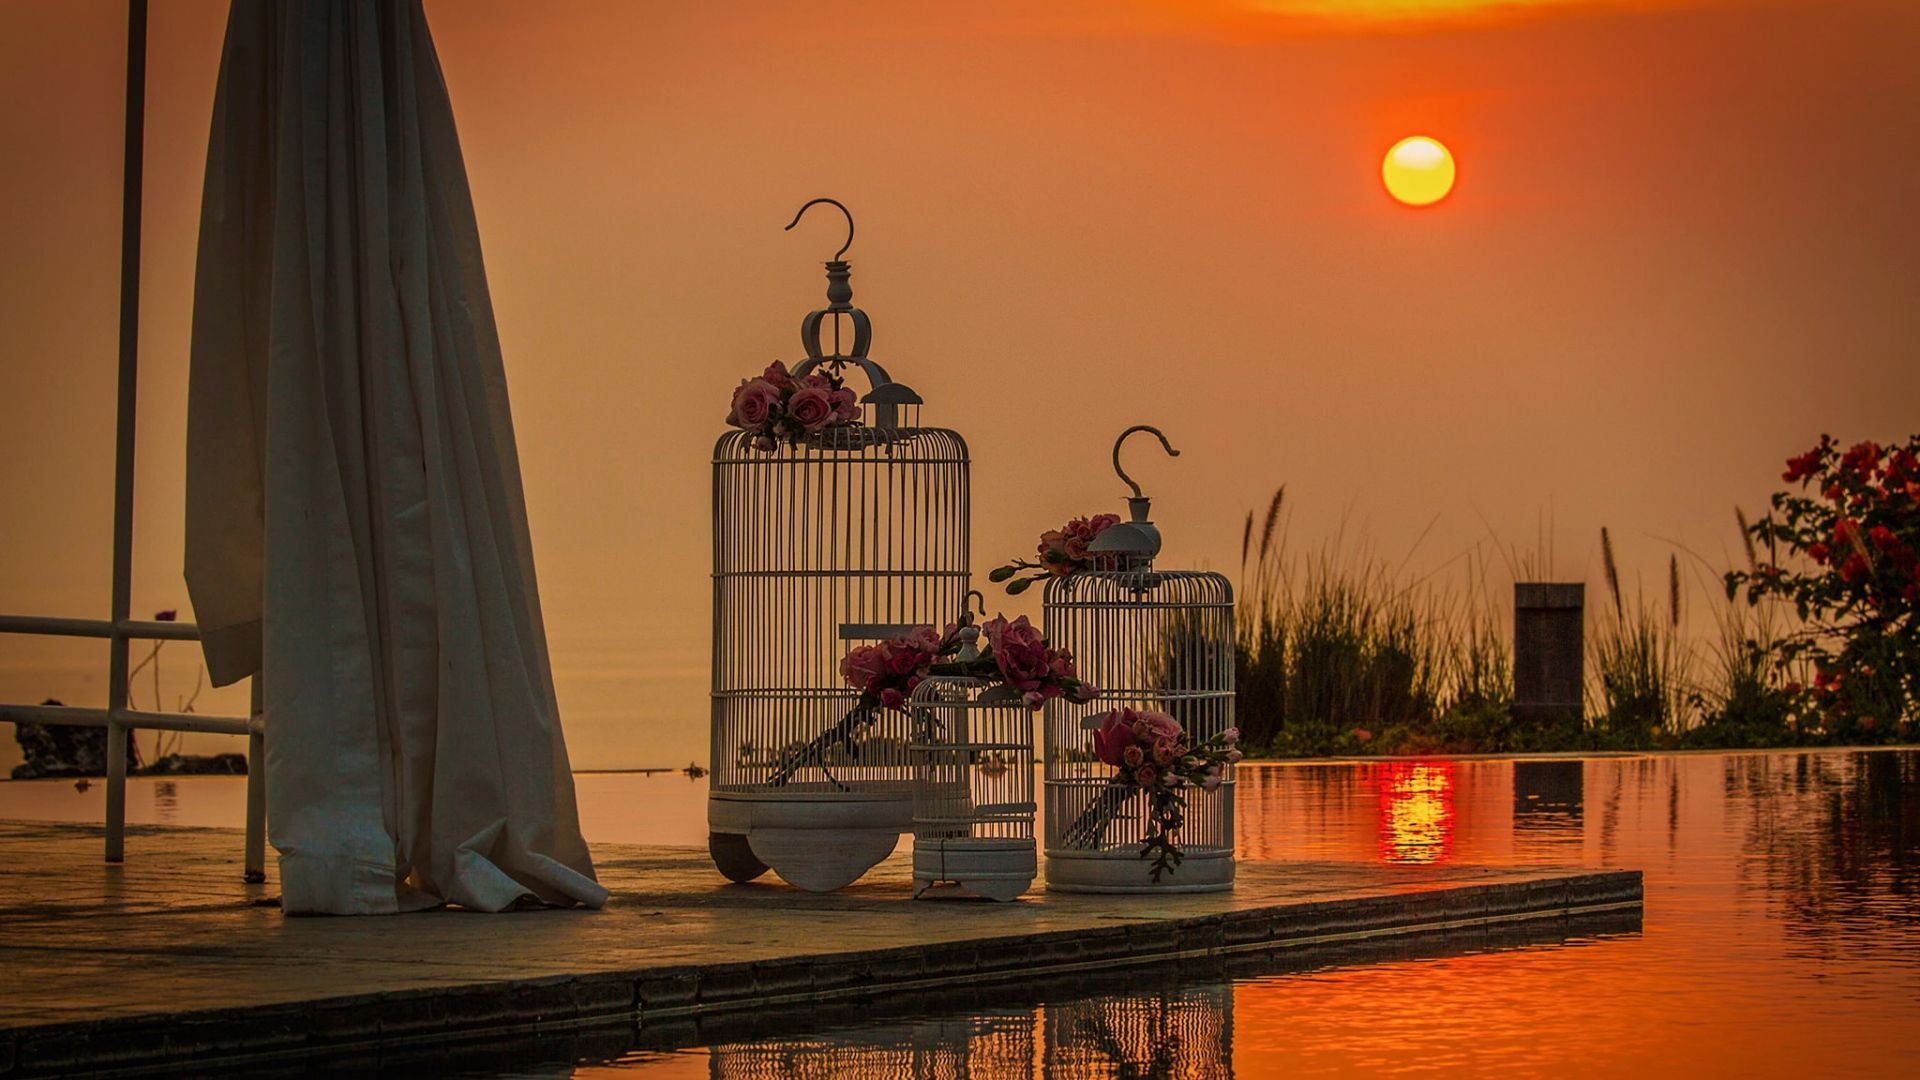
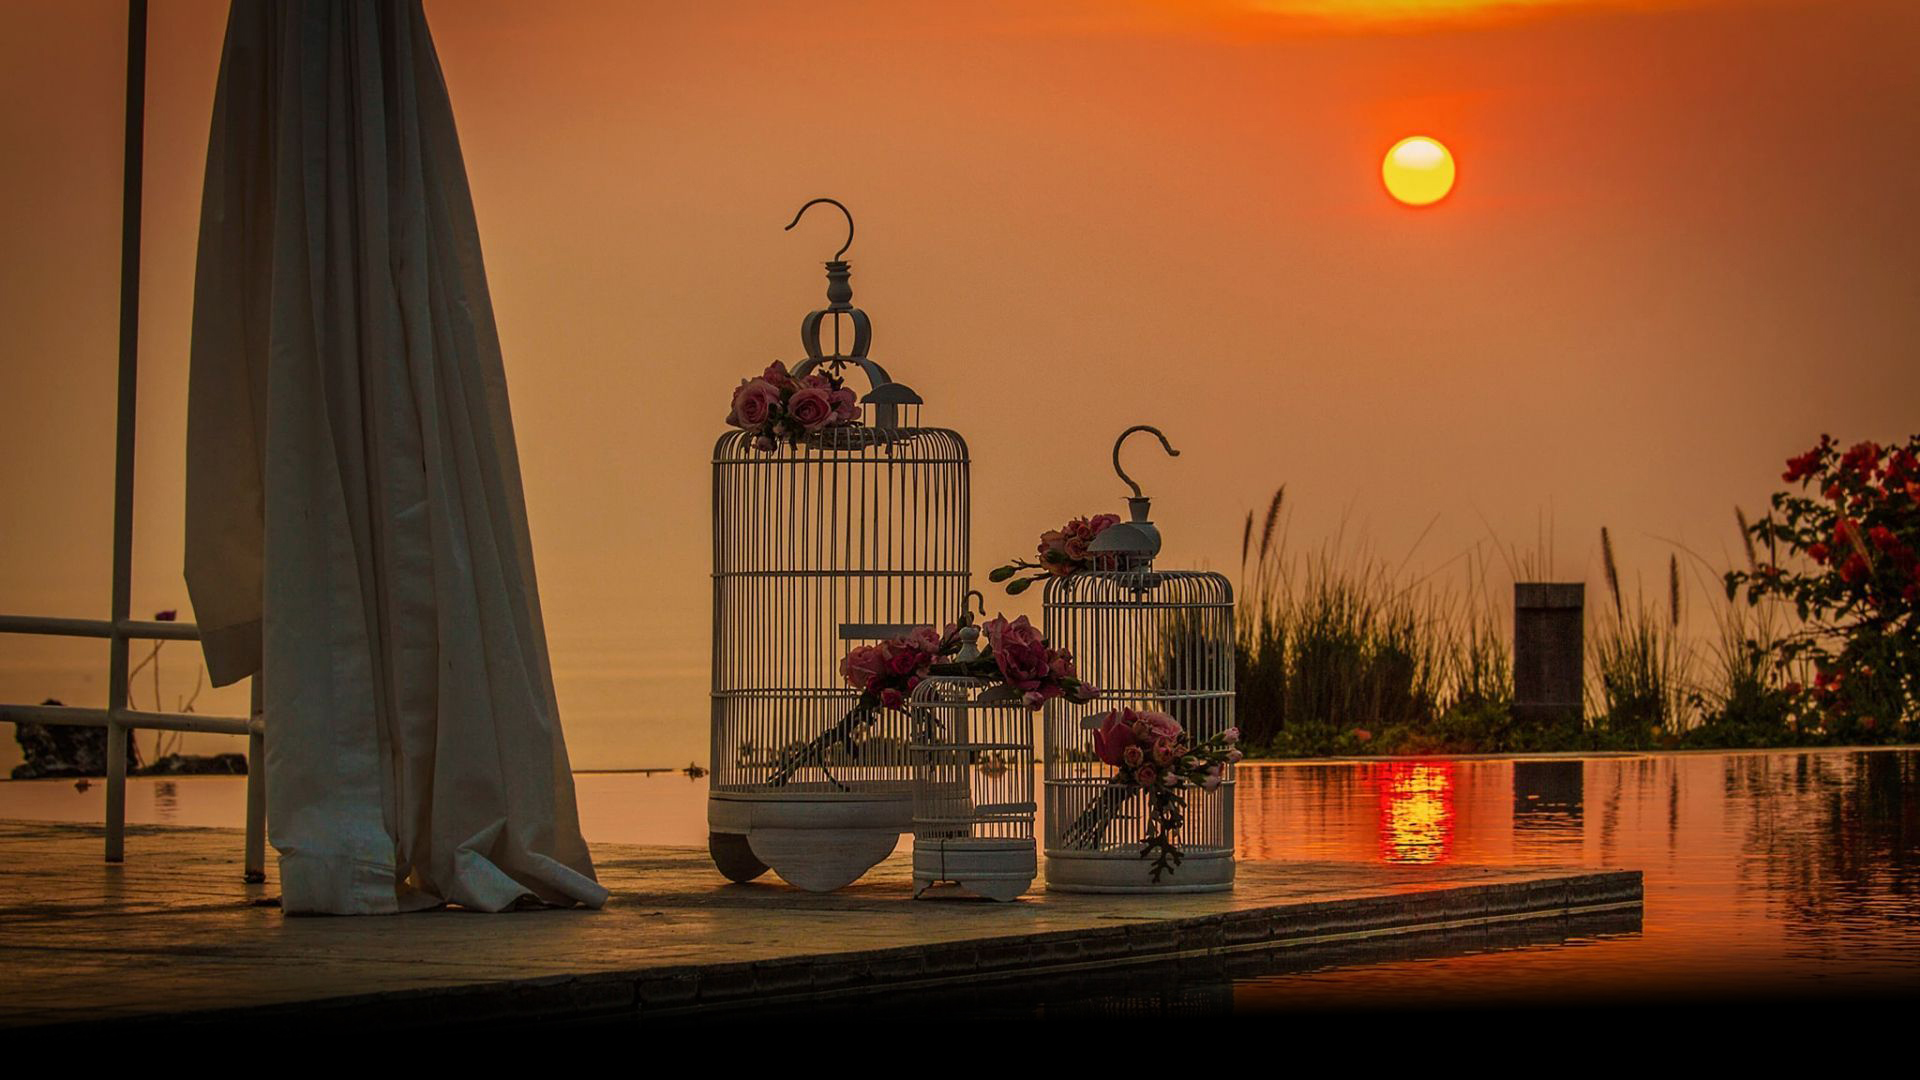
- background full --done

Changed region(s): [[0.1875, 0.8556, 1.0, 1.0], [0.0, 0.9167, 0.1875, 0.9778], [0.0312, 0.9778, 0.0625, 1.0]]

diff --git a/public/css/01_general.css b/public/css/01_general.css
@@ -20,10 +20,10 @@
     background: black;*/
     background-image: url("../img/main_bg.jpg");
     background-repeat: no-repeat;
-    height: 100%;
+    height: 1080px;
 }
 .project_main{
-    background-image: url("../img/main_bg.jpg");
+   /* background-image: url("../img/main_bg.jpg");
     background-repeat: no-repeat;
-    height: 100%;
+    height: 100%;*/
 }

diff --git a/public/css/projects/00_project_general.css b/public/css/projects/00_project_general.css
@@ -1,5 +1,6 @@
 body{
     letter-spacing: 1px;
+    background: #000000;
 }
 .wed-project-body-right{
     width: 100%;
